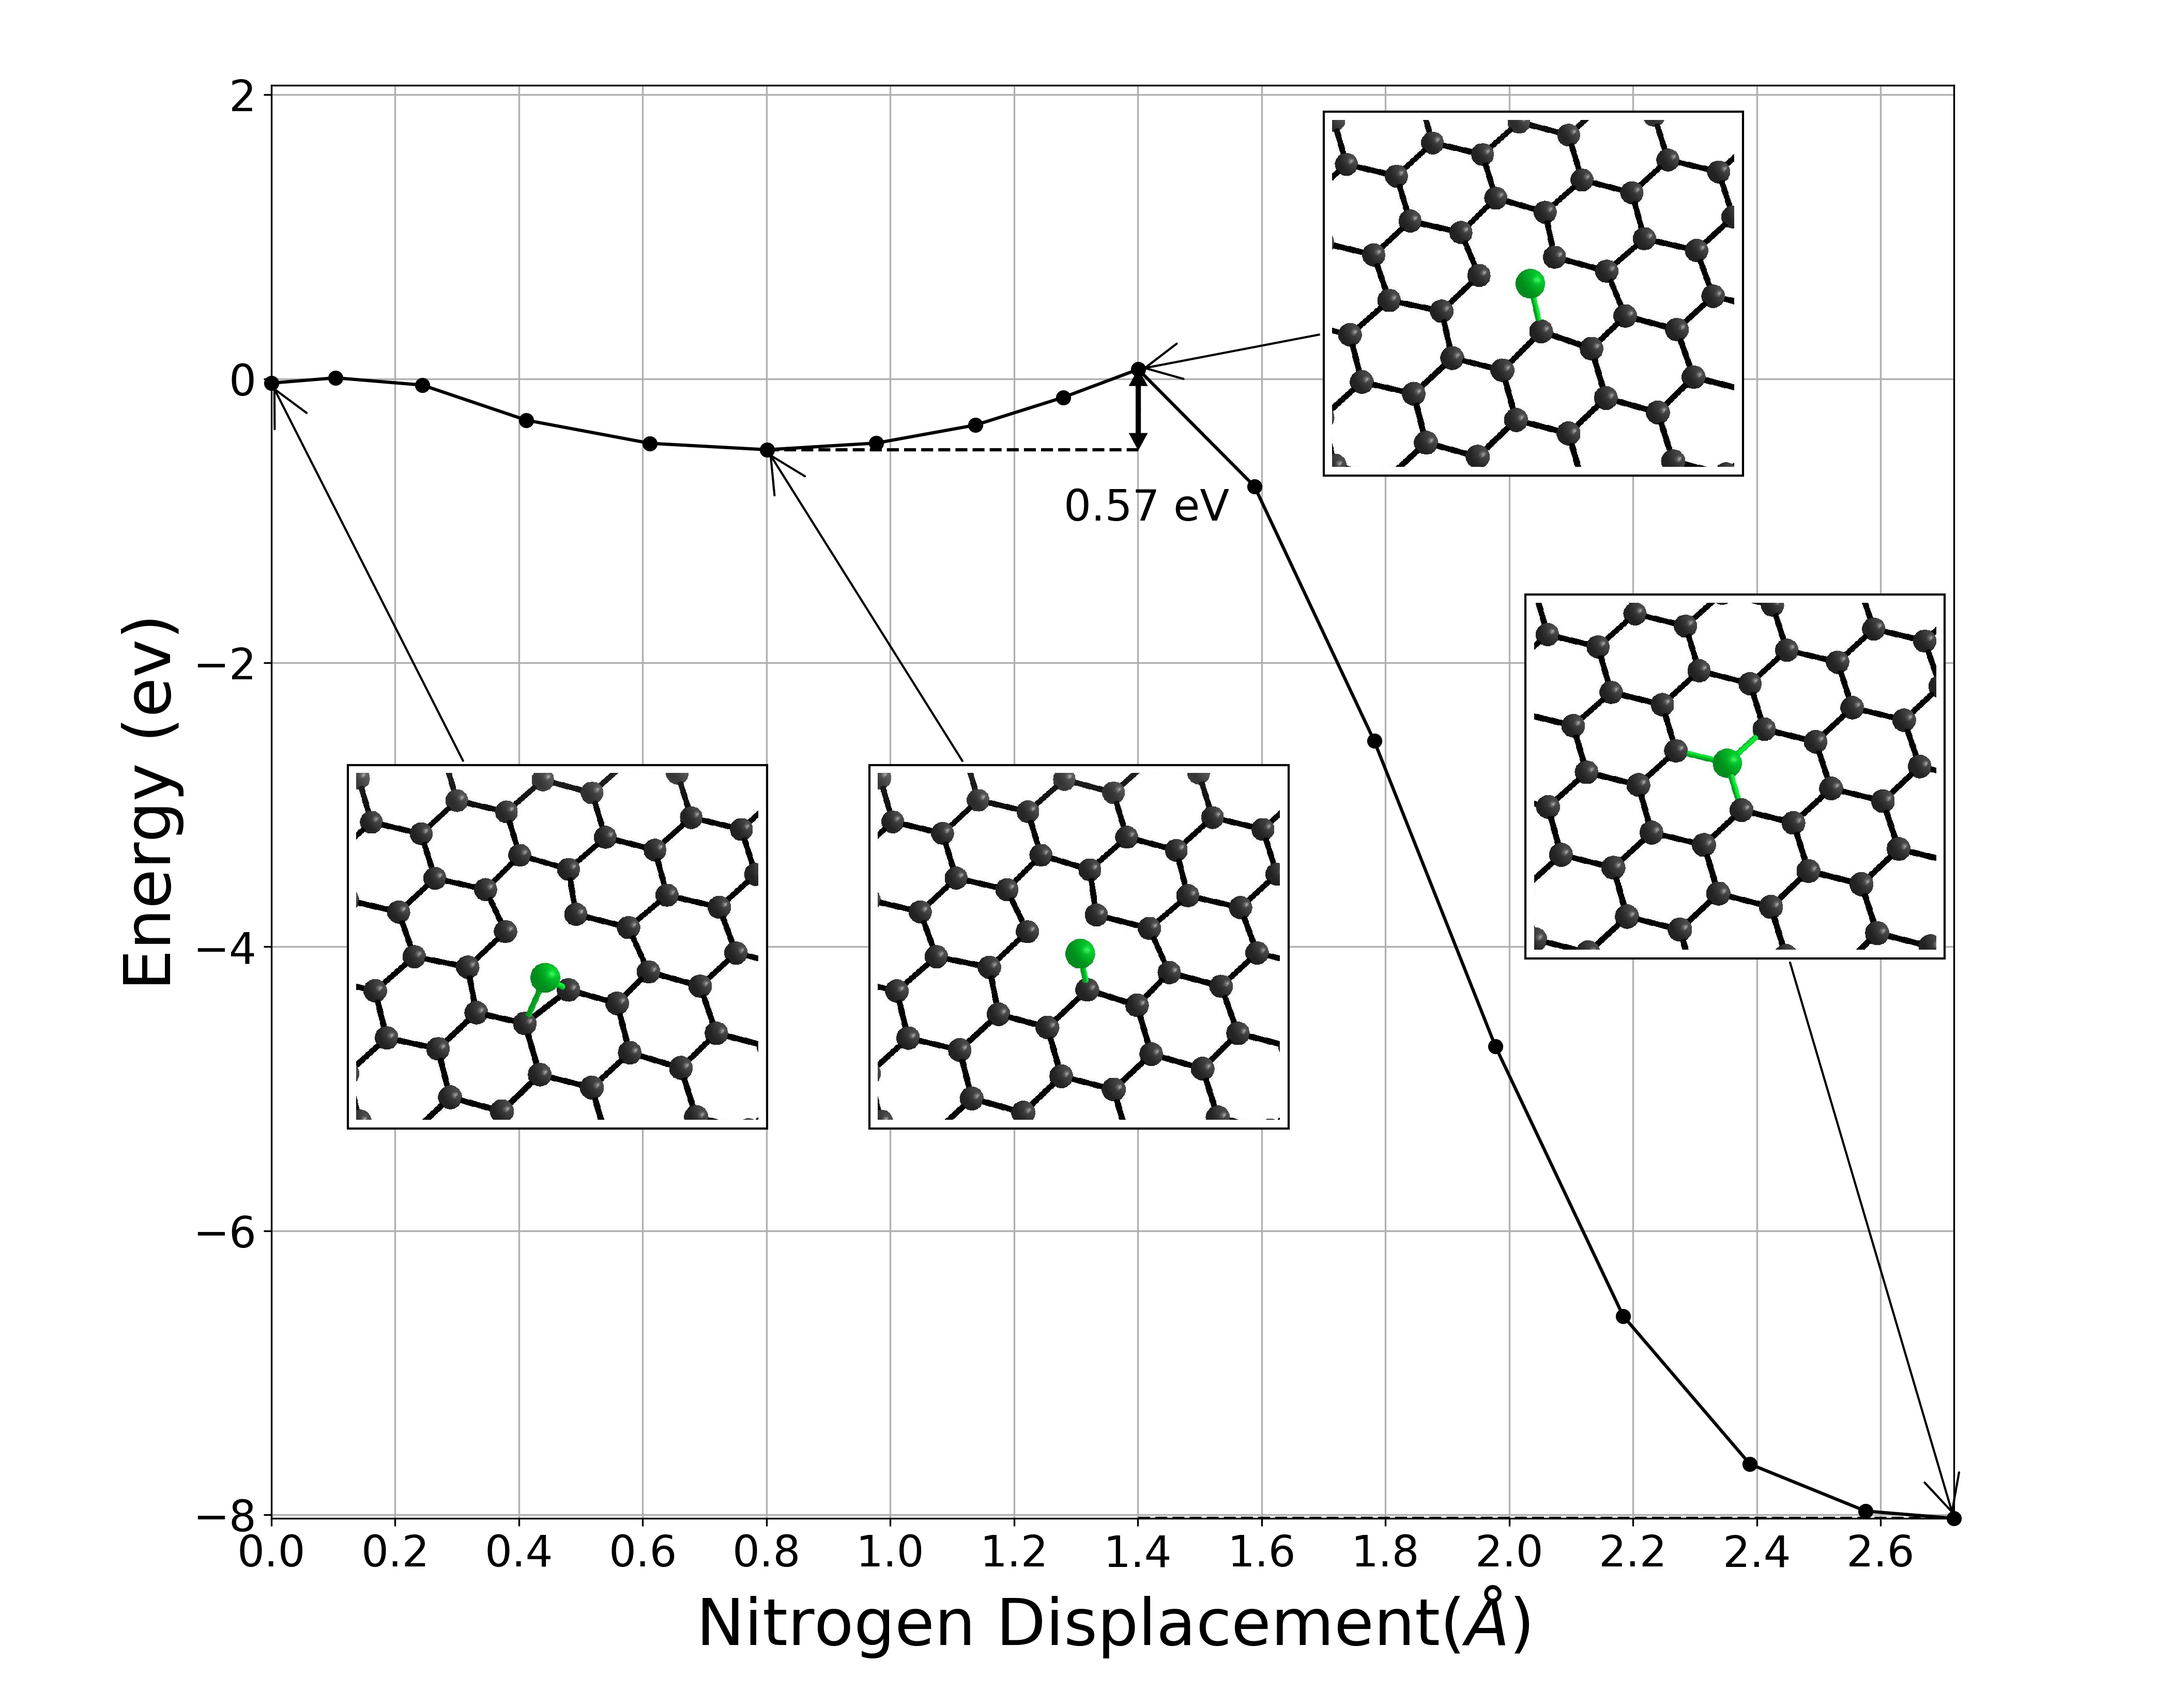
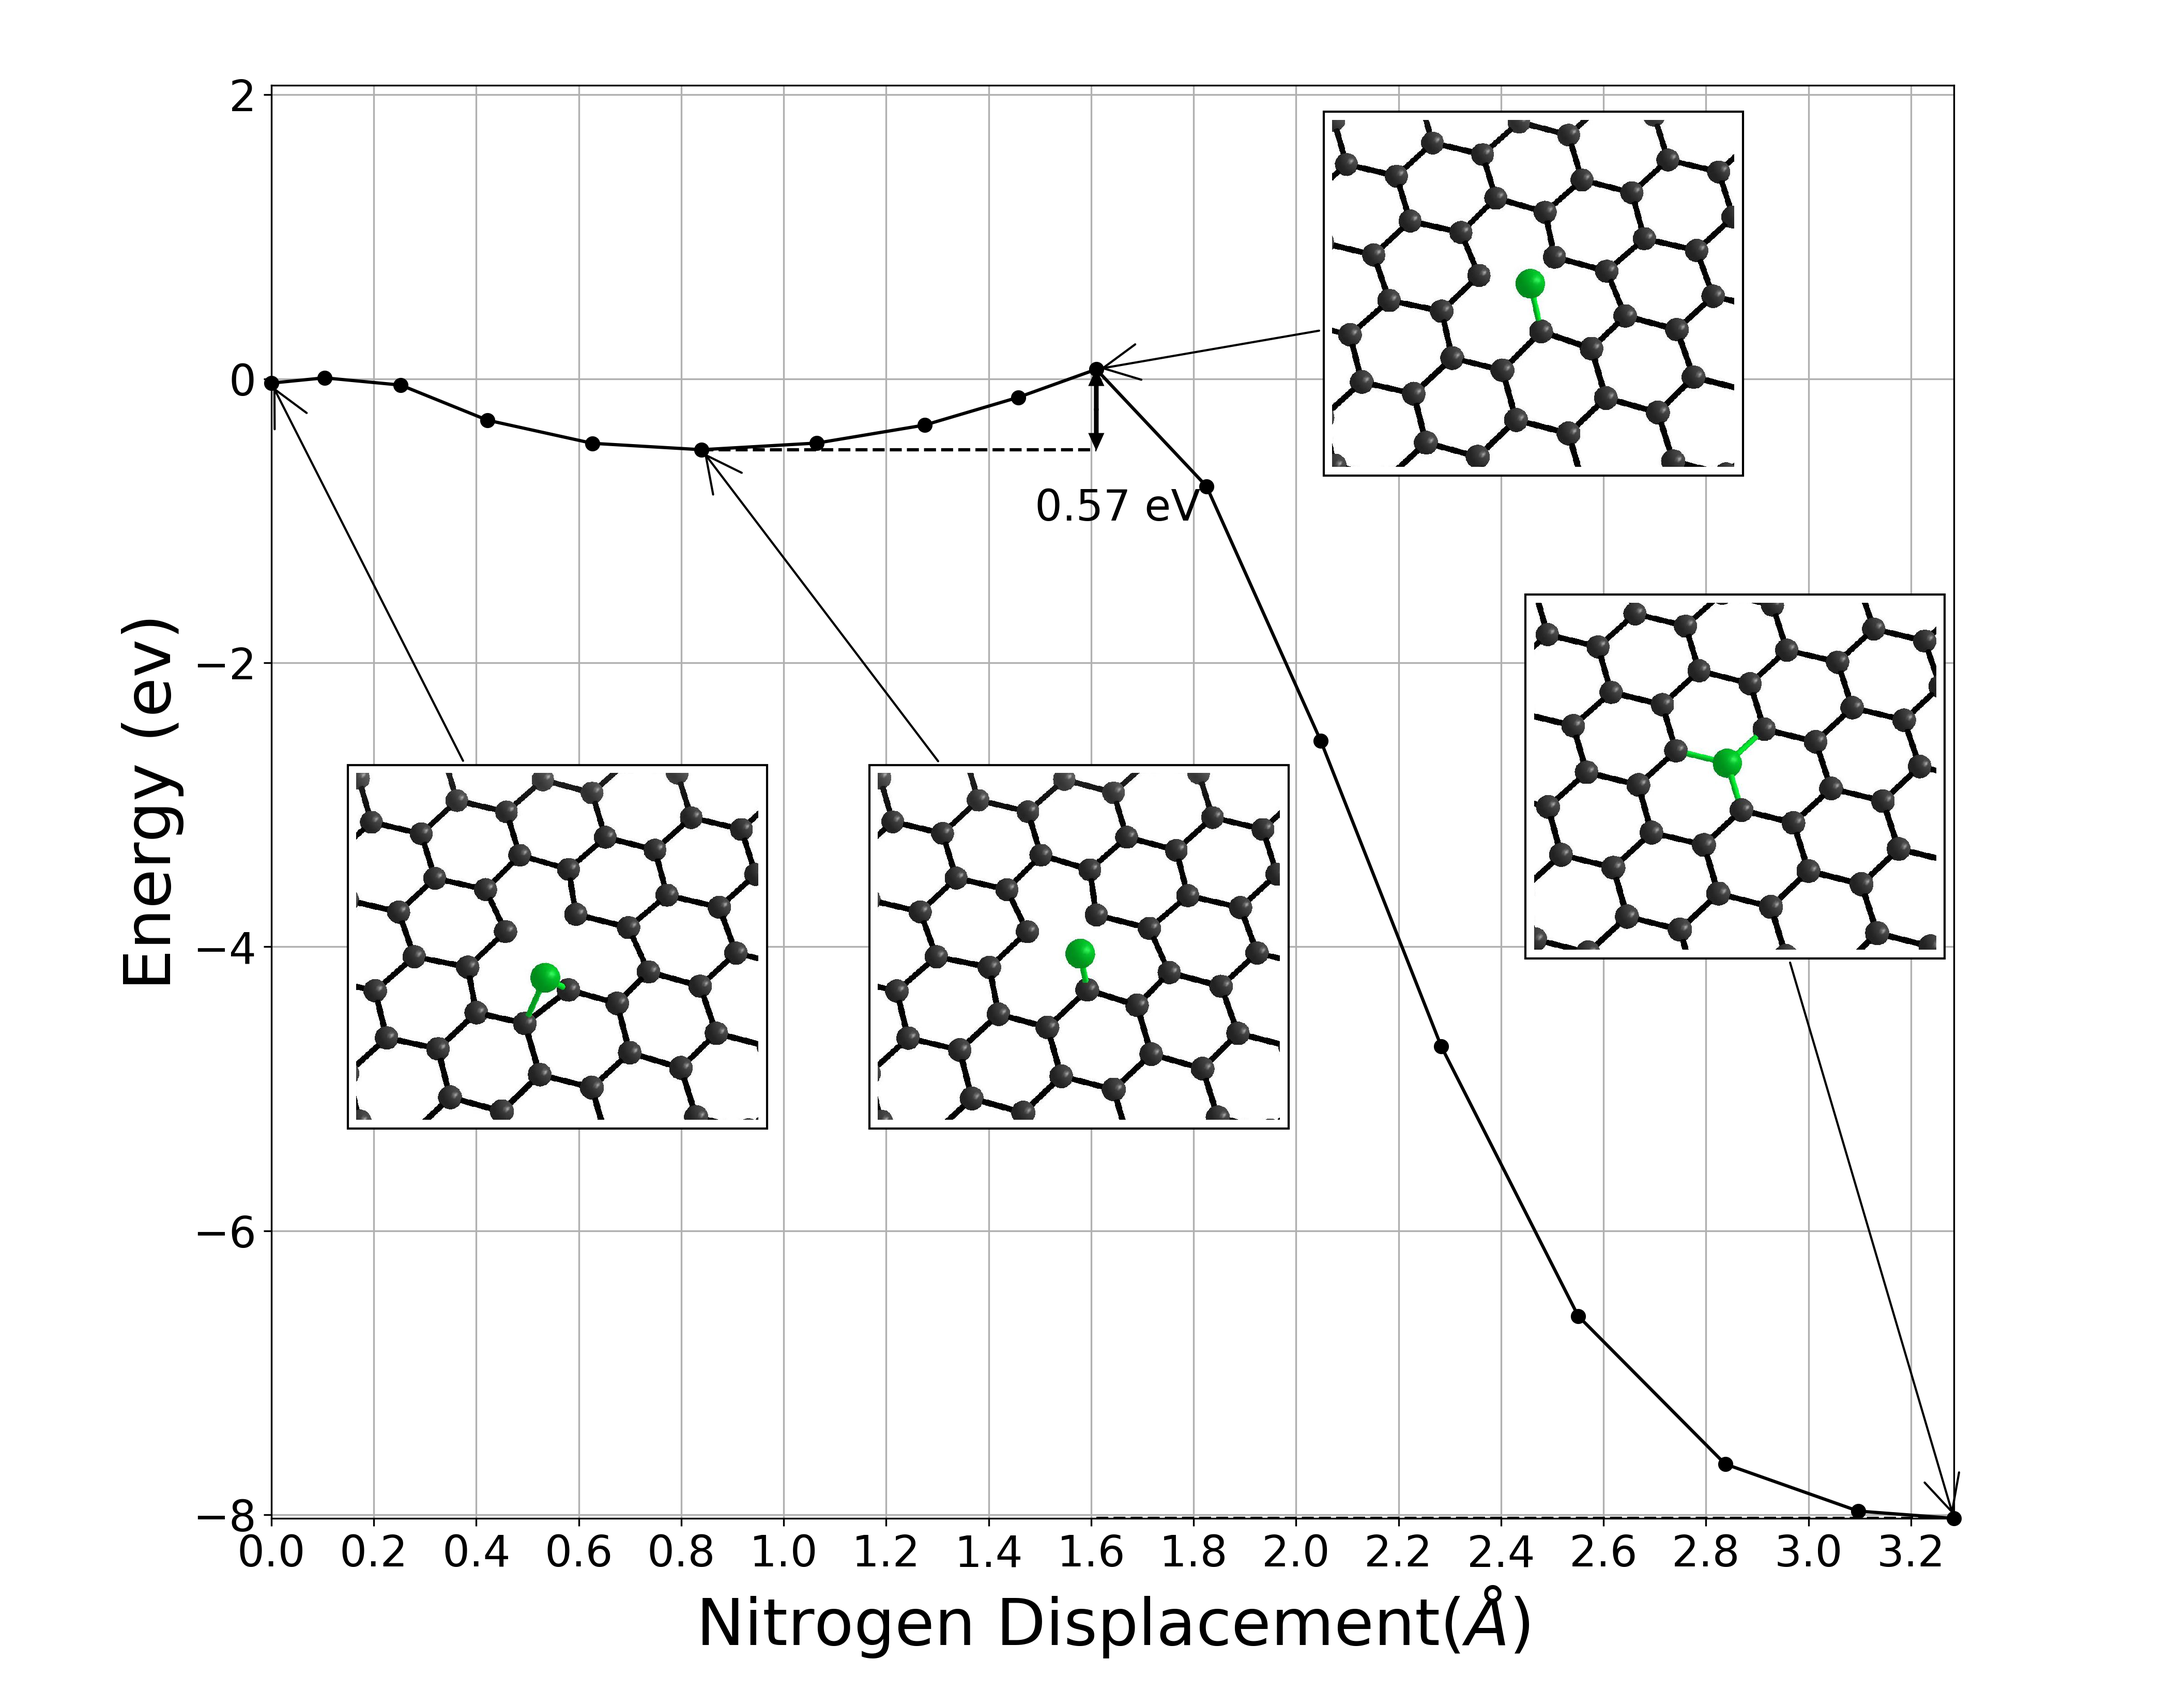
fix distances pour celles qui manquait

diff --git a/figures/sc2_inverse/figure_sc2_inverse.py b/figures/sc2_inverse/figure_sc2_inverse.py
@@ -74,10 +74,10 @@ ab2 = AnnotationBbox(imagebox2, [distances1[max1], reaction1[max1]],
                     xybox = [0.28 * distances2[-1], 4.1],
                     arrowprops=dict(arrowstyle = "->"))
 ab3 = AnnotationBbox(imagebox3, [distances1[-1], reaction1[-1]],
-                    xybox = [0.66 * distances2[-1], 4.1],
+                    xybox = [0.63 * distances2[-1], 4.1],
                     arrowprops=dict(arrowstyle = "->"))
 ab4 = AnnotationBbox(imagebox4, [distances2[max2], reaction2[max2]],
-                    xybox = [0.97 * distances2[-1], 4.1],
+                    xybox = [0.94 * distances2[-1], 4.1],
                     arrowprops=dict(arrowstyle = "->"))
 ab5 = AnnotationBbox(imagebox5, [distances2[-1], reaction2[-1]],
                     xybox = [0.85 * distances2[-1],0.9],

diff --git a/figures/sc1/data/extract_data.py b/figures/sc1/data/extract_data.py
@@ -21,7 +21,9 @@ with open('out_data.txt', 'w') as out:
     total_displacement = np.sqrt(np.sum((total_pos[-1]-total_pos[0])**2, axis=1))
     displaced_atom = np.argmax(total_displacement)
 
-    for i in range(nimages):
-        displacement = np.sqrt(np.sum((total_pos[i][displaced_atom,:] - total_pos[0][displaced_atom,:])**2))
+    displacement = 0.
+    out.write('{:> 20.17E}\n'.format(displacement))
+    for i in range(nimages-1):
+        displacement += np.sqrt(np.sum((total_pos[i+1][displaced_atom,:] - total_pos[i][displaced_atom,:])**2))
         out.write('{:> 20.17E}\n'.format(displacement))
 shutil.move('out_data.txt', '../')

diff --git a/figures/sc2_inverse/data1/extract_data.py b/figures/sc2_inverse/data1/extract_data.py
@@ -21,7 +21,9 @@ with open('out_data.txt', 'w') as out:
     total_displacement = np.sqrt(np.sum((total_pos[-1]-total_pos[0])**2, axis=1))
     displaced_atom = np.argmax(total_displacement)
 
-    for i in range(nimages):
-        displacement = np.sqrt(np.sum((total_pos[i][displaced_atom,:] - total_pos[0][displaced_atom,:])**2))
+    displacement = 0.
+    out.write('{:> 20.17E}\n'.format(displacement))
+    for i in range(nimages-1):
+        displacement += np.sqrt(np.sum((total_pos[i+1][displaced_atom,:] - total_pos[i][displaced_atom,:])**2))
         out.write('{:> 20.17E}\n'.format(displacement))
 shutil.move('out_data.txt', '../')

diff --git a/figures/sc2_inverse/data2/extract_data.py b/figures/sc2_inverse/data2/extract_data.py
@@ -21,7 +21,9 @@ with open('out_data.txt', 'w') as out:
     total_displacement = np.sqrt(np.sum((total_pos[-1]-total_pos[0])**2, axis=1))
     displaced_atom = np.argmax(total_displacement)
 
-    for i in range(nimages):
-        displacement = np.sqrt(np.sum((total_pos[i][displaced_atom,:] - total_pos[0][displaced_atom,:])**2))
+    displacement = 0.
+    out.write('{:> 20.17E}\n'.format(displacement))
+    for i in range(nimages-1):
+        displacement += np.sqrt(np.sum((total_pos[i+1][displaced_atom,:] - total_pos[i][displaced_atom,:])**2))
         out.write('{:> 20.17E}\n'.format(displacement))
 shutil.move('out_data.txt', '../')

diff --git a/figures/sc3/data/extract_data.py b/figures/sc3/data/extract_data.py
@@ -21,7 +21,9 @@ with open('out_data.txt', 'w') as out:
     total_displacement = np.sqrt(np.sum((total_pos[-1]-total_pos[0])**2, axis=1))
     displaced_atom = np.argmax(total_displacement)
 
-    for i in range(nimages):
-        displacement = np.sqrt(np.sum((total_pos[i][displaced_atom,:] - total_pos[0][displaced_atom,:])**2))
+    displacement = 0.
+    out.write('{:> 20.17E}\n'.format(displacement))
+    for i in range(nimages-1):
+        displacement += np.sqrt(np.sum((total_pos[i+1][displaced_atom,:] - total_pos[i][displaced_atom,:])**2))
         out.write('{:> 20.17E}\n'.format(displacement))
 shutil.move('out_data.txt', '../')
